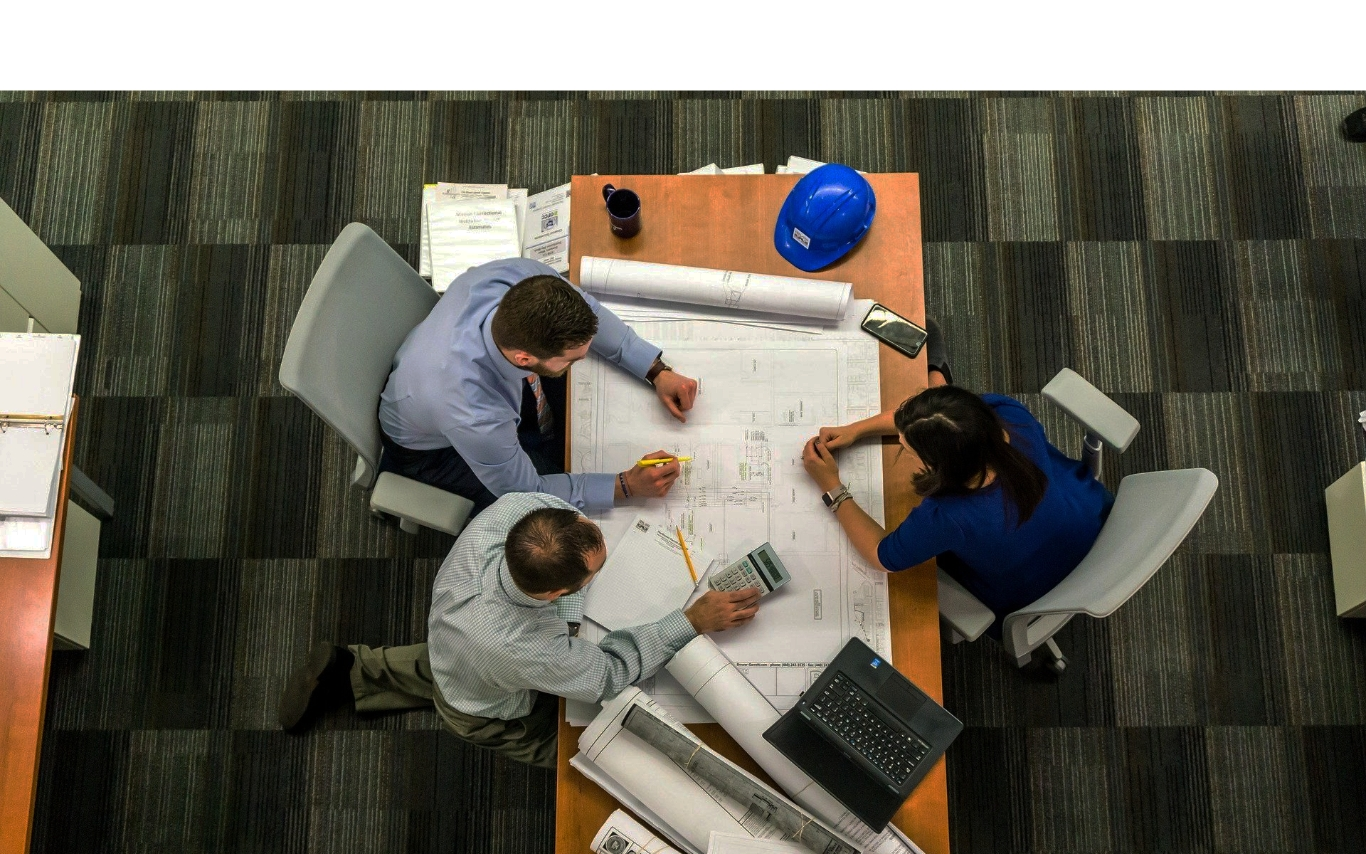
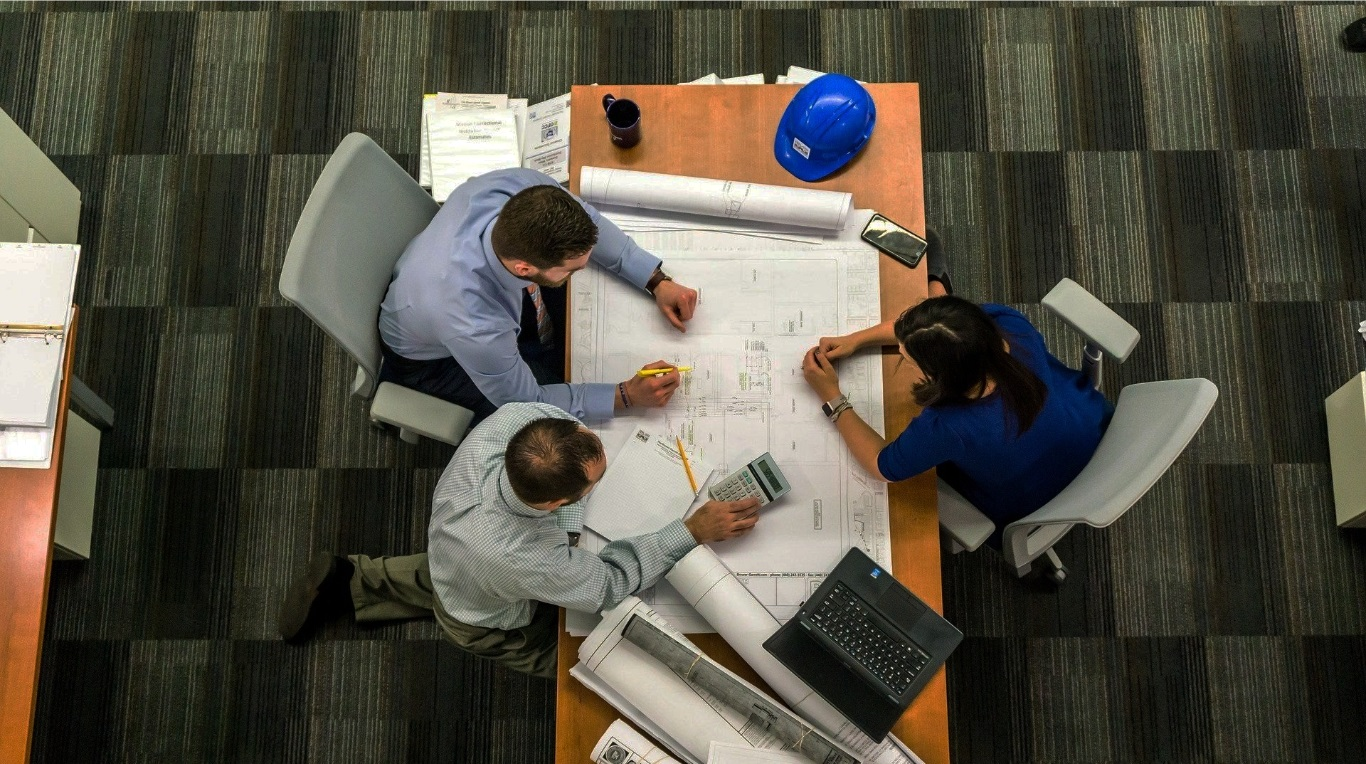
New pages creation

diff --git a/sobre.html b/sobre.html
@@ -1,5 +1,6 @@
 <!DOCTYPE html>
 <html lang="pt-BR">
+
 <head>
     <meta charset="UTF-8">
     <meta name="viewport" content="width=device-width, initial-scale=1.0">
@@ -10,8 +11,9 @@
     <link href="https://fonts.googleapis.com/css?family=Poppins&display=swap" rel="stylesheet">
     <title>RR-Reformas</title>
 </head>
+
 <body>
-    <header class="container tophome">
+    <header class="container topsobre">
         <nav class="navbar navbar-expand-lg navbar-dark mx-5">
             <a class="navbar-brand mt-5" href="#"><img class="img-fluid" src="/img/home/Retangulo.png" alt=""></a>
             <button class="navbar-toggler" type="button" data-toggle="collapse" data-target="#navbarNav"
@@ -20,11 +22,11 @@
             </button>
             <div class="collapse navbar-collapse " id="navbarNav">
                 <ul class="navbar-nav ml-auto mt-5">
-                    <li class="nav-item active">
-                        <a class="nav-link" href="home.html">Home <span class="sr-only">(Página atual)</span></a>
-                    </li>
                     <li class="nav-item">
-                        <a class="nav-link" href="sobre.html">Sobre</a>
+                        <a class="nav-link" href="home.html">Home</a>
+                    </li>
+                    <li class="nav-item active">
+                        <a class="nav-link" href="sobre.html">Sobre <span class="sr-only">(Página atual)</span></a>
                     </li>
                     <li class="nav-item">
                         <a class="nav-link" href="servicos.html">Serviços</a>
@@ -40,89 +42,37 @@
         </nav>
         <div class="row justify-content-center text-center">
             <div class="col-lg-8 col-md-12 postion-relative">
-                <h1><b>RR Reformas</b><br> <span class="sectext"> Construção e Reformas</span></h1>
-                <a class="btn mt-5 border rounded-0 text-white" href="">Serviços</a>
+                <h1 class="sectext"><br>Sobre Nós</h1>
             </div>
         </div>
     </header>
-    <section class="boxcenter1 align-center text-center">
-        <div class="container">
-            <div class="row align-items-center">
-                <div class="col-md-4 card border-0">
-                    <img class="img-fluid card-img rounded-0" src="/img/home/home-construcao.jpg" alt="">
-                    <div class="card-img-overlay">
-                        <h2 class="card-title">Construção</h2>
-                    </div>
-                    <p>Lorem ipsum lorem ipsum Lorem ipsum lorem ipsum Lorem ipsum lorem ipsum
-                        Lorem ipsum lorem ipsum Lorem ipsum lorem ipsum Lorem ipsum lorem ipsum</p>
+    <section class="boxcenter2">
+        <div class="row justify-content-center ">
+            <div class="col-12 text-center">
+                <div class="item">
+                    <h4> <b>Um pouco sobre nós</b></h4>
                 </div>
-                <div class="col-md-4 card border-0">
-                    <img class="img-fluid card-img rounded-0" src="/img/home/home-reformas.jpg" alt="">
-                    <div class="card-img-overlay">
-                        <h2 class="card-title">Reformas</h2>
-                    </div>
-                    <p>Lorem ipsum lorem ipsum Lorem ipsum lorem ipsum Lorem ipsum lorem ipsum
-                        Lorem ipsum lorem ipsum Lorem ipsum lorem ipsum Lorem ipsum lorem ipsum</p>
-                </div>
-                <div class="col-md-4 card border-0">
-                    <img class="img-fluid card-img rounded-0" src="/img/home/home-pintura.jpg" alt="">
-                    <div class="card-img-overlay">
-                        <h2 class="card-title">Pintura</h2>
-                    </div>
-                    <p>Lorem ipsum lorem ipsum Lorem ipsum lorem ipsum Lorem ipsum lorem ipsum
-                        Lorem ipsum lorem ipsum Lorem ipsum lorem ipsum Lorem ipsum lorem ipsum</p>
+                <div class="col-sm-10 ">
+                    <p class="item">
+                        Lorem ipsum lorem ipsum Lorem ipsum lorem ipsum Lorem ipsum 
+                        lorem ipsum Lorem ipsum lorem ipsum Lorem ipsum lorem ipsum 
+                        Lorem ipsum lorem ipsum Lorem ipsum lorem ipsum Lorem ipsum 
+                        lorem ipsum Lorem ipsum lorem ipsum Lorem ipsum lorem ipsum 
+                        Lorem ipsum lorem ipsum Lorem ipsum lorem ipsum Lorem ipsum 
+                        lorem ipsum Lorem ipsum lorem ipsum Lorem ipsum lorem ipsum 
+                        Lorem ipsum lorem ipsum Lorem ipsum lorem ipsum Lorem ipsum 
+                        lorem ipsum Lorem ipsum lorem ipsum Lorem ipsum lorem ipsum 
+                        Lorem ipsum lorem ipsum Lorem ipsum lorem ipsum Lorem ipsum 
+                        lorem ipsum Lorem ipsum lorem ipsum ipsum Lorem ipsum lorem 
+                        ipsum Lorem
+                        Lorem ipsum lorem ipsum Lorem ipsum lorem ipsum Lorem ipsum 
+                        lorem ipsum Lorem ipsum lorem ipsum Lorem ipsum lorem ipsum 
+                        Lorem ipsum lorem ipsum Lorem ipsum lorem ipsum ipsum Lorem 
+                        ipsum lorem ipsum Lorem  
+                    </p>
                 </div>
             </div>
         </div>
-        <div class="container">
-            <div class="row align-items-center">
-                <div class="col-md-4 card border-0">
-                    <img class="img-fluid card-img rounded-0" src="/img/home/home-hidraulica.jpg" alt="">
-                    <div class="card-img-overlay">
-                        <h2 class="card-title">Hidráulica</h2>
-                    </div>
-                    <p>Lorem ipsum lorem ipsum Lorem ipsum lorem ipsum Lorem ipsum lorem ipsum
-                        Lorem ipsum lorem ipsum Lorem ipsum lorem ipsum Lorem ipsum lorem ipsum</p>
-                </div>
-                <div class="col-md-4 card border-0">
-                    <img class="img-fluid card-img rounded-0" src="/img/home/home-eletrica.jpg" alt="">
-                    <div class="card-img-overlay">
-                        <h2 class="card-title">Elétrica</h2>
-                    </div>
-                    <p>Lorem ipsum lorem ipsum Lorem ipsum lorem ipsum Lorem ipsum lorem ipsum
-                        Lorem ipsum lorem ipsum Lorem ipsum lorem ipsum Lorem ipsum lorem ipsum</p>
-                </div>
-                <div class="col-md-4 card border-0">
-                    <img class="img-fluid card-img rounded-0" src="/img/home/home-projetos.jpg" alt="">
-                    <div class="card-img-overlay">
-                        <h2 class="card-title">Projetos</h2>
-                    </div>
-                    <p>Lorem ipsum lorem ipsum Lorem ipsum lorem ipsum Lorem ipsum lorem ipsum
-                        Lorem ipsum lorem ipsum Lorem ipsum lorem ipsum Lorem ipsum lorem ipsum</p>
-                </div>
-            </div>
-            <div class="row">
-                <div class="col-lg-12">
-                    <span>Entre em contato e faça um orçamento!</span> <br>
-                    <a class="btn border rounded-0 text-dark mt-2" href="">Orçamentos</a>
-                </div>
-            </div>
-            <div class="container mdtext">
-                <div class="row align-items-center">
-                    <div class="col-12">
-                        <h3>Projetos</h3>
-                    </div>
-                    <div class="col-md-4">
-                        <img class="img-fluid" src="/img/home/home-projeto-01.jpg" alt="">
-                    </div>
-                    <div class="col-md-4">
-                        <img class="img-fluid" src="/img/home/home-projeto-02.jpg" alt="">
-                    </div>
-                    <div class="col-md-4">
-                        <img class="img-fluid" src="/img/home/home-projeto-03.jpg" alt="">
-                    </div>
-                </div>
-            </div>
     </section>
     <footer class="container-fluid">
         <div class="row">
@@ -180,4 +130,5 @@
         integrity="sha384-ChfqqxuZUCnJSK3+MXmPNIyE6ZbWh2IMqE241rYiqJxyMiZ6OW/JmZQ5stwEULTy"
         crossorigin="anonymous"></script>
 </body>
+
 </html>

diff --git a/css/style.css b/css/style.css
@@ -7,13 +7,34 @@
 
 /*Basic Tags*/
 header{
+    width: 1408px;
+    height: 727px;
+}
+.tophome{
     background-image: url("../img/home/home-bg-intro.jpg");
     background-repeat: no-repeat;
     background-size: cover;
     background-position: center;
-    width: 1408px;
-    height: 727px;
 }
+.topsobre{
+    background-image: url("../img/sobre/bg-sobre.jpg");
+    background-repeat: no-repeat;
+    background-size: cover;
+    background-position: center;
+}
+.topservicos{
+    background-image: url("../img/servicos/bg-servicos.jpg");
+    background-repeat: no-repeat;
+    background-size: cover;
+    background-position: center;
+}
+.topcontato{
+    background-image: url("../img/contato/bg-contato.jpg");
+    background-repeat: no-repeat;
+    background-size: cover;
+    background-position: center;
+}
+
 /*Menu Content*/
 .navbar-brand, .navbar{
     font-size: 18px;
@@ -25,6 +46,9 @@ header{
     top: 128px;
     height: 242px;
     font-size: 40px;
+}
+.col-lg-12{
+    font-size: 14px;
 }
 .sextext{
     font-size: 38px;
@@ -48,40 +72,67 @@ h2.card-title{
     padding: 13px 78px 12px 62px;
     font-size: 18px;
     font-weight: bold;
-    padding-top: ;
 }
-.boxcenter{
+.boxcenter1{
     margin-top: 80px;
+}
+.boxcenter2{
+    font-size: 24px;
+    margin-top: 16px;
 }
 
 h2{
     background-color: rgba(255, 255, 255, 0.7);
     margin: -5px;
 }
-
+.mdtext{
+    margin-top: 75px;
+    padding-bottom: 64px;
+    background-color: #E4F9F5;
+}
+.mdtext h3{
+    font-size: 24px;
+    margin-top: 16px;
+}
 /*footer*/
 footer{
-    font-size: 34px;
     background-image: url("../img/home/bg-footer.jpg");
     background-repeat: no-repeat;
     background-size: cover;
-    color: white;
+    background-position: center;
+    width: 1366px;
+    height: 464px;
 }
-footer h3{
+.info{
+    color: white;
     margin-top: 64px;
     margin-left: 140px;
+}
+.itemh{
     font-size: 34px;
-    border-bottom: 3px solid white;
+    border-bottom: 4px solid white;
 }
-footer p{
-    margin-left: 140px;
+.itemt{
     font-size: 18px;
+
 }
-footer form{
-    margin-left: 123px;
+.finfo{
+    font-size: 18px;
+    font-weight: bold;
+    padding-top: 20px;
+    padding-bottom: 19px;
 }
-img.text-hide{
-    padding: 25px;
-    border: 3px solid #30E3CA;
+.social{
+    margin-top: 32px;
+}
+.sociall{
+    background-color: #30E3CA;
+    margin: 16px;
+    padding: 15px;
     border-radius: 50%;
+}
+.msg{
+    color: white;
+    margin-top: 64px;
+    margin-left: 140px;
 }

diff --git a/contato.html b/contato.html
@@ -11,7 +11,7 @@
     <title>RR-Reformas</title>
 </head>
 <body>
-    <header class="container tophome">
+    <header class="container topcontato">
         <nav class="navbar navbar-expand-lg navbar-dark mx-5">
             <a class="navbar-brand mt-5" href="#"><img class="img-fluid" src="/img/home/Retangulo.png" alt=""></a>
             <button class="navbar-toggler" type="button" data-toggle="collapse" data-target="#navbarNav"
@@ -20,8 +20,8 @@
             </button>
             <div class="collapse navbar-collapse " id="navbarNav">
                 <ul class="navbar-nav ml-auto mt-5">
-                    <li class="nav-item active">
-                        <a class="nav-link" href="home.html">Home <span class="sr-only">(Página atual)</span></a>
+                    <li class="nav-item">
+                        <a class="nav-link" href="home.html">Home </a>
                     </li>
                     <li class="nav-item">
                         <a class="nav-link" href="sobre.html">Sobre</a>
@@ -32,8 +32,8 @@
                     <li class="nav-item">
                         <a class="nav-link disabled" href="#">Projetos</a>
                     </li>
-                    <li class="nav-item">
-                        <a class="nav-link" href="contato.html">Contato</a>
+                    <li class="nav-item active">
+                        <a class="nav-link" href="contato.html">Contato <span class="sr-only">(Página atual)</span></a>
                     </li>
                 </ul>
             </div>
@@ -45,7 +45,7 @@
             </div>
         </div>
     </header>
-    <section class="boxcenter1 align-center text-center">
+    <section class="boxcenter align-center text-center">
         <div class="container">
             <div class="row align-items-center">
                 <div class="col-md-4 card border-0">

diff --git a/servicos.html b/servicos.html
@@ -11,7 +11,7 @@
     <title>RR-Reformas</title>
 </head>
 <body>
-    <header class="container tophome">
+    <header class="container topservicos">
         <nav class="navbar navbar-expand-lg navbar-dark mx-5">
             <a class="navbar-brand mt-5" href="#"><img class="img-fluid" src="/img/home/Retangulo.png" alt=""></a>
             <button class="navbar-toggler" type="button" data-toggle="collapse" data-target="#navbarNav"
@@ -20,14 +20,14 @@
             </button>
             <div class="collapse navbar-collapse " id="navbarNav">
                 <ul class="navbar-nav ml-auto mt-5">
-                    <li class="nav-item active">
-                        <a class="nav-link" href="home.html">Home <span class="sr-only">(Página atual)</span></a>
+                    <li class="nav-item">
+                        <a class="nav-link" href="home.html">Home</a>
                     </li>
                     <li class="nav-item">
                         <a class="nav-link" href="sobre.html">Sobre</a>
                     </li>
-                    <li class="nav-item">
-                        <a class="nav-link" href="servicos.html">Serviços</a>
+                    <li class="nav-item active">
+                        <a class="nav-link" href="servicos.html">Serviços <span class="sr-only">(Página atual)</span></a>
                     </li>
                     <li class="nav-item">
                         <a class="nav-link disabled" href="#">Projetos</a>
@@ -45,7 +45,7 @@
             </div>
         </div>
     </header>
-    <section class="boxcenter1 align-center text-center">
+    <section class="boxcenter align-center text-center">
         <div class="container">
             <div class="row align-items-center">
                 <div class="col-md-4 card border-0">
